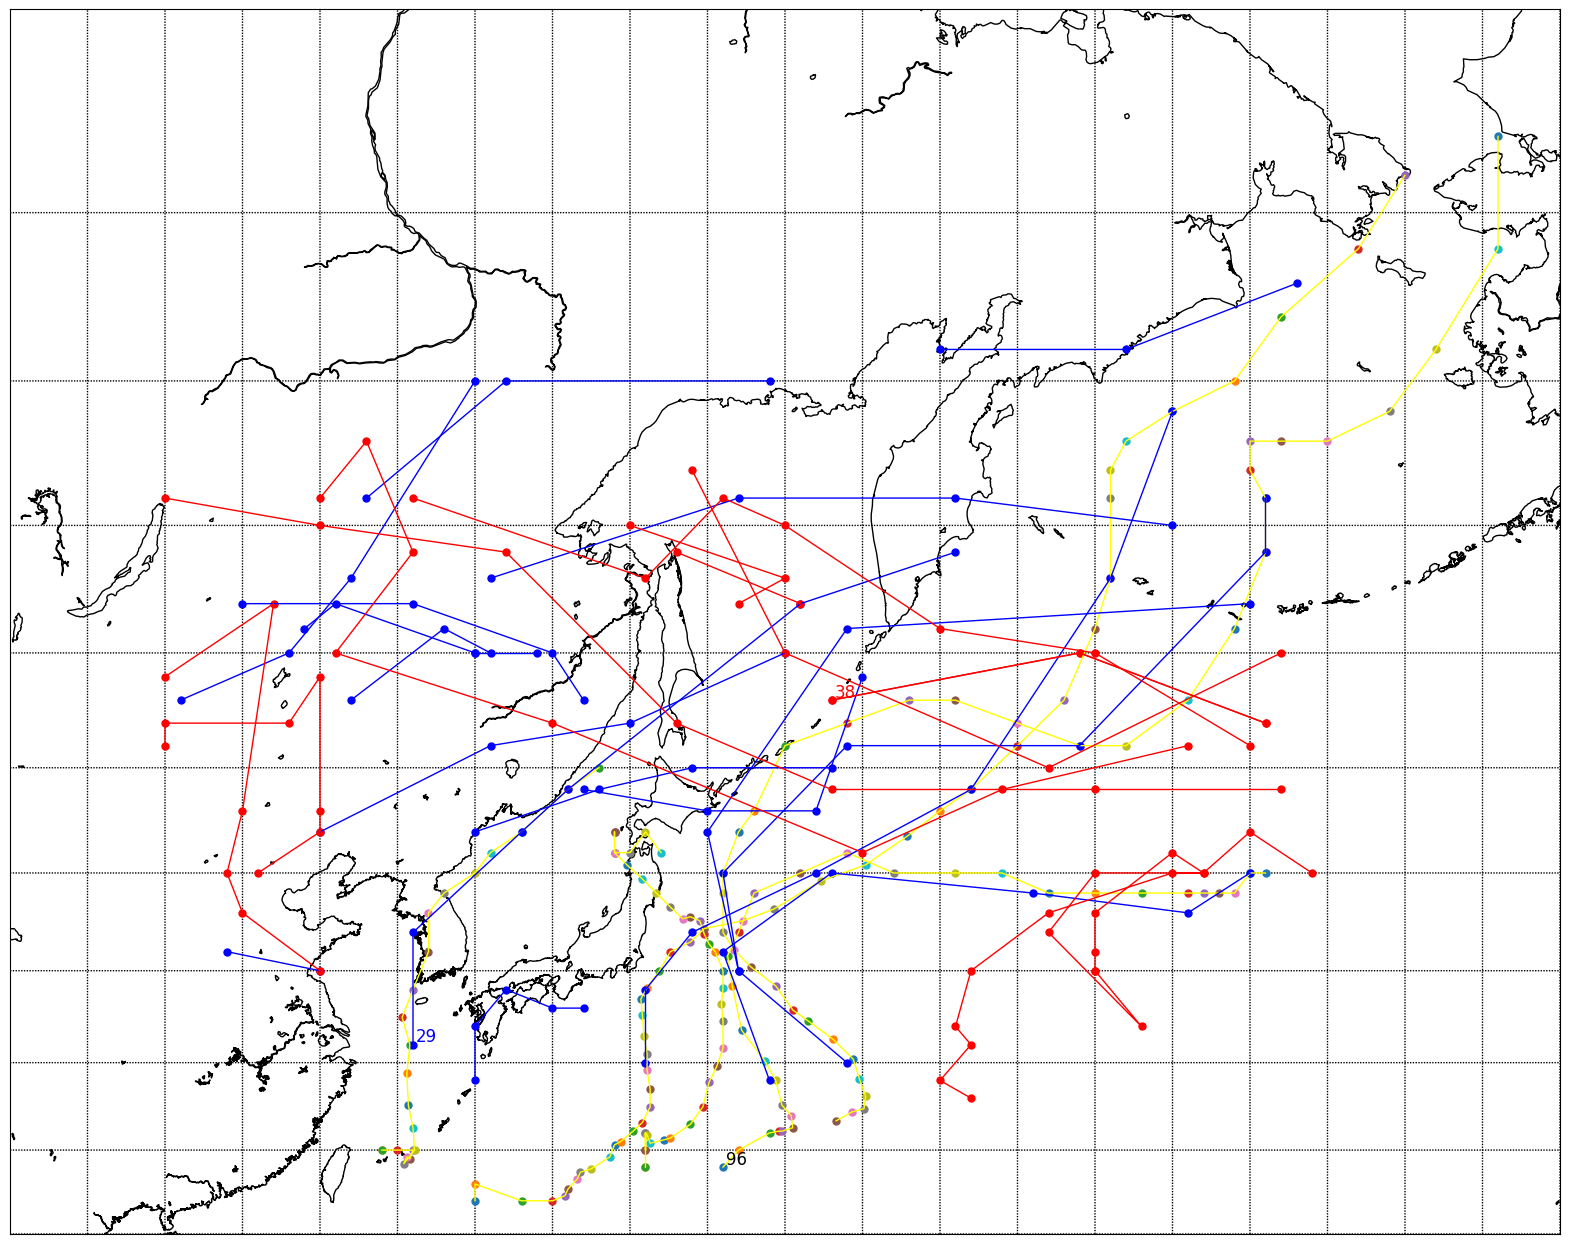
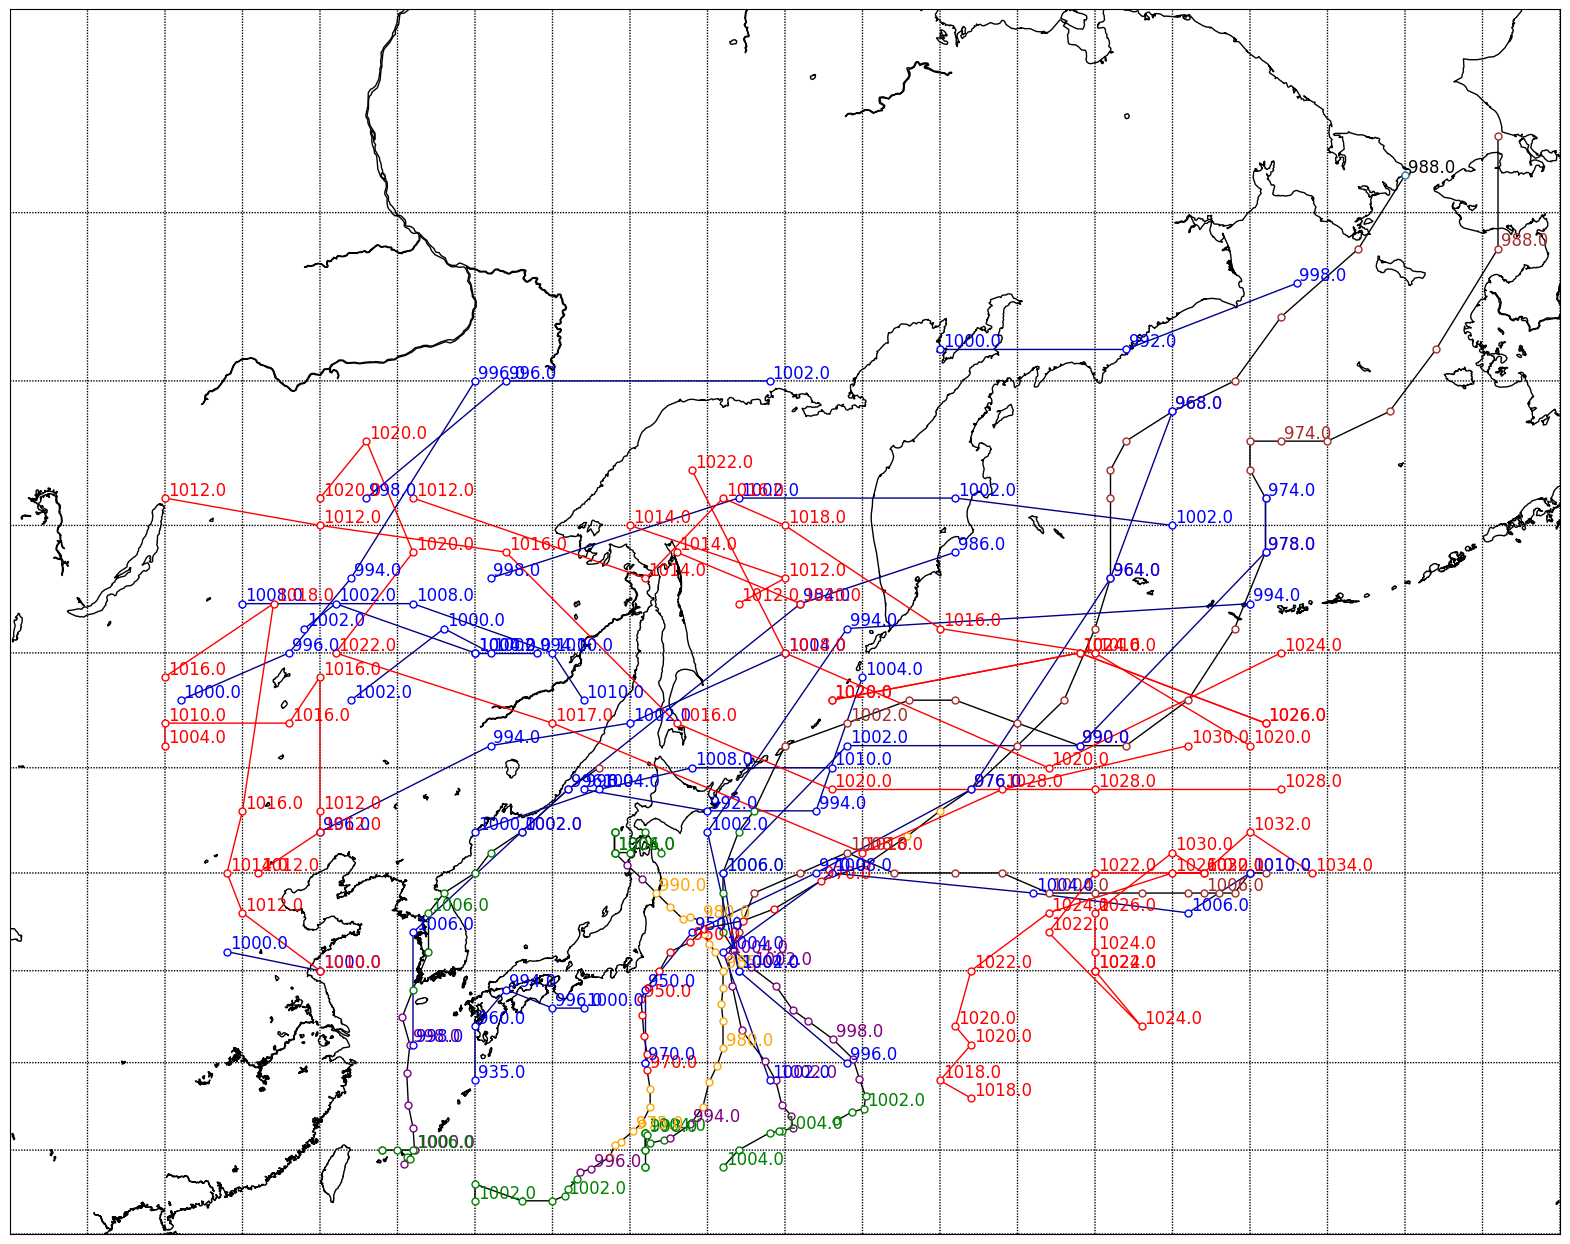
4

diff --git a/main.py b/main.py
@@ -11,32 +11,20 @@ from datetime import datetime, timedelta
 from mpl_toolkits.basemap import Basemap
 import matplotlib.pyplot as plt
 
-def track_tc(bm, tracks): #1
-    for track in tracks:
-        line = loads(track)
-        lons, lats = zip(*list(line.coords))  # Разбираем координаты
-        x, y = bm(lons, lats)
-        color = 'yellow'
-        bm.plot(x, y, marker=None, color=color, linewidth=1)
+# Класс строк линий, скорее всего не пригодится
+class TrackRow:
+    def __init__(self, coords, name, id):
+        self.coords = coords
+        self.name = name
+        self.id = id
 
-def track_zn(bm, tracks): #3
-    for track in tracks:
-        line = loads(track)
-        lons, lats = zip(*list(line.coords))  # Разбираем координаты
-        x, y = bm(lons, lats)
-        color = 'blue'
-        bm.plot(x, y, marker=None, color=color, linewidth=1)
-
-def track_az(bm, tracks): #4
-    for track in tracks:
-        line = loads(track)
-        lons, lats = zip(*list(line.coords))  # Разбираем координаты
-        x, y = bm(lons, lats)
-        subtitle_dot = list(line.coords)[0]
-        #по полученной точке рисовать
-        # plt.text(x, y, , fontsize=12, color=color)
-        color = 'red'
-        bm.plot(x, y, marker=None, color=color, linewidth=1)
+# Класс строк точек: X, Y, давление
+class DotRow:
+    def __init__(self, lon, lat, type_id, slp):
+        self.lon = lon
+        self.lat = lat
+        self.type_id = type_id
+        self.slp = slp
 
 def stage_type_id_color(type_id):
         if type_id == 2:
@@ -50,56 +38,104 @@ def stage_type_id_color(type_id):
         elif type_id == 29:
             return 'brown'
 
+def track_tc(bm, tracks): #1
+    for track in tracks:
+        line = loads(track.coords)
+        lons, lats = zip(*list(line.coords))  # Разбираем координаты
+        x, y = bm(lons, lats)
+        color = 'black'
+        bm.plot(x, y, marker=None, color=color, linewidth=1)
+        plt.text(x[1] + 20000, y[1] + 20000, str(track.name).replace(' (', '\n('), fontsize=12, color=color)
+
+def track_zn(bm, tracks): #3
+    for track in tracks:
+        line = loads(track.coords)
+        lons, lats = zip(*list(line.coords))  # Разбираем координаты
+        x, y = bm(lons, lats)
+        color = 'darkblue'
+        bm.plot(x, y, marker=None, color=color, linewidth=1)
+        plt.text(x[1] + 20000, y[1] + 20000, str(track.name).replace(' (', '\n('), fontsize=12, color=color)
+
+def track_az(bm, tracks): #4
+    for track in tracks:
+        line = loads(track.coords)
+        lons, lats = zip(*list(line.coords))  # Разбираем координаты
+        x, y = bm(lons, lats)
+        color = 'red'
+        bm.plot(x, y, marker=None, color=color, linewidth=1)
+        plt.text(x[1] + 20000, y[1] + 20000, str(track.name).replace(' (', '\n('), fontsize=12, color=color)
+
 def dot_tc(bm, dots):
-    count = 0
+    prev_dot_id = -1
     for dot in dots:
-        vm_lons, vm_lats, dot_id, dot_slp, dot_type_id = dot.split(' ') #x, y, подпись id, давление, тип точки
-        color = stage_type_id_color(dot_type_id)
-        x, y = bm(float(vm_lons), float(vm_lats))
+        # vm_lons, vm_lats, dot_id, dot_slp, dot_type_id = dot.split(' ') # x, y, подпись id, давление, тип точки
+        color = stage_type_id_color(dot.type_id)
+        x, y = bm(float(dot.lon), float(dot.lat))
+        if dot.slp:
+            plt.text(x + 20000, y + 20000, str(dot.slp), fontsize=12, color=color)
         # будет функция возвращающая тип маркера (и цвет и тп)
-        bm.plot(x, y, marker='o', color=color, markersize=5)
-        if count == 0:
-            x += 20000
-            y += 20000
-            plt.text(x, y, str(dot_id), fontsize=12, color=color)
-            #Пишем имя троп циклона
-        count += 1
+        bm.plot(x, y, marker='o', color=color, markersize=5,  markeredgecolor=color, markerfacecolor='white')
+
+        # if tmp in label_dots:
+        #     x += 20000
+        #     y += 20000
+        #     plt.text(x, y, str(dot_id), fontsize=12, color=color)
+        #
+        # if prev_dot_id != dot_id:
+        #     x += 20000
+        #     y += 20000
+        #     plt.text(x, y, str(dot_id), fontsize=12, color=color)
+        # prev_dot_id = dot_id
 
 def dot_zn(bm, dots):
-    count = 0
+    # prev_dot_id = -1
     for dot in dots:
-        vm_lons, vm_lats, dot_id, dot_slp = dot.split(' ')
+        # vm_lons, vm_lats, dot_id, dot_slp = dot.split(' ')
         color = 'blue'
-        x, y = bm(float(vm_lons), float(vm_lats))
-        bm.plot(x, y, marker='o', color=color, markersize=5)
-        if count == 0:
-            x += 20000
-            y += 20000
-            plt.text(x, y, str(dot_id), fontsize=12, color=color)
-        count += 1
+        x, y = bm(float(dot.lon), float(dot.lat))
+        bm.plot(x, y, marker='o', color=color, markersize=5,  markeredgecolor=color, markerfacecolor='white')
+        if dot.slp:
+            plt.text(x + 20000, y + 20000, str(dot.slp), fontsize=12, color=color)
+        # if f"({vm_lons}, {vm_lats})" in label_dots:
+        #     x += 20000
+        #     y += 20000
+        #     plt.text(x, y, str(dot_id), fontsize=12, color=color)
+        #
+        # if prev_dot_id != dot_id:
+        #     x += 20000
+        #     y += 20000
+        #     plt.text(x, y, str(dot_id), fontsize=12, color=color)
+        # prev_dot_id = dot_id
 
 def dot_az(bm, dots):
-    count = 0
+    prev_dot_id = -1
     for dot in dots:
-        vm_lons, vm_lats, dot_id, dot_slp = dot.split(' ')
+        # vm_lons, vm_lats, dot_id, dot_slp = dot.split(' ')
         color = 'red'
-        x, y = bm(float(vm_lons), float(vm_lats))
-        bm.plot(x, y, marker='o', color=color, markersize=5)
-        if count == 0:
-            x += 20000
-            y += 20000
-            plt.text(x, y, str(dot_id), fontsize=12, color=color)
-        count += 1
+        x, y = bm(float(dot.lon), float(dot.lat))
+        bm.plot(x, y, marker='o', color=color, markersize=5,  markeredgecolor=color, markerfacecolor='white')
+        if dot.slp:
+            plt.text(x + 20000, y + 20000, str(dot.slp), fontsize=12, color=color)
+
+        # if f"({vm_lons}, {vm_lats})" in label_dots:
+        #     x += 20000
+        #     y += 20000
+        #     plt.text(x, y, str(dot_id), fontsize=12, color=color)
+        #
+        # if prev_dot_id != dot_id:
+        #     x += 20000
+        #     y += 20000
+        #     plt.text(x, y, str(dot_id), fontsize=12, color=color)
+        # prev_dot_id = dot_id
 
 def get_cis_property_view_month(date_start, date_end, cur):
-    command = f"SELECT ST_X(coord), ST_Y(coord), cic_type_id, * FROM ciclones.cic_property_view_mon WHERE max_datetime >= '{date_start}' AND max_datetime <= '{date_end}'"
-    # command = f"SELECT ST_X(coord), ST_Y(coord), cic_type_id FROM ciclones.cic_property_view_mon WHERE max_datetime >= '{date_start}' AND max_datetime <= '{date_end}'"
+    command = f"SELECT ST_X(coord), ST_Y(coord), cic_type_id, * FROM ciclones.cic_property_view_mon WHERE max_datetime >= '{date_start}' AND max_datetime <= '{date_end}' order by cic_id, max_datetime;"
     cur.execute(command)
     view_mon_rows = cur.fetchall()
     return view_mon_rows
 
 def get_cis_track_view_month(date_start, date_end, cur):
-    command = f"SELECT ST_AsText(track), cic_type_id, * FROM ciclones.cic_track_view_gs_full WHERE max_datetime >= '{date_start}' AND max_datetime <= '{date_end}'"
+    command = f"SELECT ST_AsText(track), cic_type_id, * FROM ciclones.cic_track_view_gs_full WHERE max_datetime >= '{date_start}' AND max_datetime <= '{date_end}' order by cic_id, max_datetime;"
     cur.execute(command)
     track_view_rows = cur.fetchall()
     return track_view_rows
@@ -109,16 +145,11 @@ def get_cis_track_view_month(date_start, date_end, cur):
 # 3 - циклон
 # 4 - антициклон
 
-def main(cys_type_zn, cys_type_az, cys_type_tc, start_date, period, save_path): #Циклон, Антициклон, Тропический циклон
+def main(cys_type_zn, cys_type_az, cys_type_tc, start_date, period, save_path, is_slp, is_track_name): #Циклон, Антициклон, Тропический циклон
     # Считываем карту и рисуем необходимую область
     os.environ['GDAL_DATA'] = os.path.join(f'{os.sep}'.join(sys.executable.split(os.sep)[:-1]), 'Library', 'share', 'gdal')
     gpd.read_file('map/ne_110m_coastline.shp')
     plt.figure(figsize=(20, 16))
-    # bm = Basemap(width=8000000,height=6500000,
-    #             rsphere=(6378137.00,6356752.3142),\
-    #             resolution='h',area_thresh=1000.,projection='lcc',\
-    #             lat_1=-10.,lat_2=55,lat_0=45,lon_0=+150.)
-    #             # lat_1=20., lat_2=55, lat_0=45, lon_0=+150.)
     blanc_type = "None"
     if blanc_type == "TC":
         bm = Basemap(projection='aeqd', # Тропики
@@ -134,7 +165,6 @@ def main(cys_type_zn, cys_type_az, cys_type_tc, start_date, period, save_path): 
     bm.drawparallels(np.arange(-80.,81.,5.))
     bm.drawmeridians(np.arange(-180.,181.,5.))
     bm.drawcoastlines()
-    #bm.readshapefile('map/ne_110m_coastline', 'coastline')
 
     # Считываем параметры БД
     with open('confing.conf', 'r') as f:
@@ -187,6 +217,7 @@ def main(cys_type_zn, cys_type_az, cys_type_tc, start_date, period, save_path): 
     # формируем и заранее создаем необходимые списки
     view_mon_rows = get_cis_property_view_month(start_date, end_date, cur)
     track_view_rows = get_cis_track_view_month(start_date, end_date, cur)
+
     track_view_tc = list()
     track_view_zn = list()
     track_view_az = list()
@@ -195,52 +226,75 @@ def main(cys_type_zn, cys_type_az, cys_type_tc, start_date, period, save_path): 
     mon_view_zn = list()
     mon_view_az = list()
 
+    label_dot_dict = dict()
+
     # формируем списки линий по типам циклонов
     for track in track_view_rows:
-        type = track[1]
+        track_type = track[1]
+        track_id = ""
+        if is_track_name:
+            track_id = str(track[2])[-2:]
         row = track[0]
-        if type == 1:
+        # Проверяем нужны ли подписи имен линий и если нужны передаем и их
+        if is_track_name:
+            if track[3] != None:
+                name = track[3]
+            else:
+                name = ""
+            element = TrackRow(row, name, track_id)
+        else:
+            element = TrackRow(row, "", track_id)
+
+        if track_type == 1:
             if cys_type_tc:
                 if row is None:
                     continue
-                track_view_tc.append(row)
-        if type == 3:
+                track_view_tc.append(element)
+        if track_type == 3:
              if cys_type_zn:
                 if row is None:
                     continue
-                track_view_zn.append(row)
-        if type == 4:
+                track_view_zn.append(element)
+        if track_type == 4:
             if cys_type_az:
                 if row is None:
                     continue
-                track_view_az.append(row)
+                track_view_az.append(element)
 
     # формируем списки точек по типам циклонов
     for dot in view_mon_rows:
         vm_lons = dot[0]
         vm_lats = dot[1]
-        dot_id = str(dot[3])[-2:]
-        dot_slp = dot[18]
+        dt = int(datetime.strftime(dot[15],"%H"))
+        dot_type = dot[2]
+        # Проверяем нужно ли подписать давление и если нужно то передаем его значение по условию
+        dot_slp = ""
+        if dt == 0 and is_slp:
+            dot_slp = dot[18]
+
         dot_stage_type_id = None
         if dot[13]:
             dot_stage_type_id = dot[13]
-        type = dot[2]
-        if cys_type_tc:
-            if type == 1:
-                mon_view_tc.append(f"{vm_lons} {vm_lats} {dot_id} {dot_slp} {dot_stage_type_id}")
-        if cys_type_zn:
-            if type == 3:
-                mon_view_zn.append(f"{vm_lons} {vm_lats} {dot_id} {dot_slp}")
-        if cys_type_az:
-            if type == 4:
-                mon_view_az.append(f"{vm_lons} {vm_lats} {dot_id} {dot_slp}")
 
+        element = DotRow(vm_lons, vm_lats, dot_stage_type_id, dot_slp)
+
+        if cys_type_tc:
+            if dot_type == 1:
+                # mon_view_tc.append(f"{vm_lons} {vm_lats} {dot_id} {dot_slp} {dot_stage_type_id}")
+                mon_view_tc.append(element)
+        if cys_type_zn:
+            if dot_type == 3:
+                # mon_view_zn.append(f"{vm_lons} {vm_lats} {dot_id} {dot_slp}")
+                mon_view_zn.append(element)
+        if cys_type_az:
+            if dot_type == 4:
+                # mon_view_az.append(f"{vm_lons} {vm_lats} {dot_id} {dot_slp}")
+                mon_view_az.append(element)
 
     # построение линий
     track_tc(bm, track_view_tc)
     track_zn(bm, track_view_zn)
     track_az(bm, track_view_az)
-
 
     # построение точек
     dot_tc(bm, mon_view_tc)
@@ -259,7 +313,7 @@ def main(cys_type_zn, cys_type_az, cys_type_tc, start_date, period, save_path): 
         filepath = filepath + "Az"
     if cys_type_tc:
         filepath = filepath + "Tc"
-    filepath = filepath + ".png"
+    filepath += ".png"
 
     # сохраняем файл
     plt.savefig(filepath, bbox_inches='tight', pad_inches=0.1)
@@ -309,12 +363,28 @@ if __name__ == "__main__":
         default="./",
         help="Путь куда сохранять"
     )
-
+    parser.add_argument(
+        "--dots_slp", "-slp",
+        required=False,
+        type=float,
+        default=1,
+        help="Нужно ли давление точек"
+    )
+    parser.add_argument(
+        "--track_name", "-tn",
+        required=False,
+        type=float,
+        default=0,
+        help="Нужны ли имена линий"
+    )
     # Передаем аргументы
     args = parser.parse_args()
     cis_type_zn = True
     cis_type_az = True
     cis_type_tc = True
+    is_slp = True
+    is_track_name = True
+
     if args.cyclone == 0:
         cis_type_zn = False
 
@@ -324,4 +394,10 @@ if __name__ == "__main__":
     if args.tropicalcyclone == 0:
         cis_type_tc = False
 
-    main(cis_type_zn, cis_type_az, cis_type_tc, args.startdate, args.period, args.pathtosave)
+    if args.dots_slp == 0:
+        is_slp = False
+
+    if args.track_name == 0:
+        is_track_name = False
+
+    main(cis_type_zn, cis_type_az, cis_type_tc, args.startdate, args.period, args.pathtosave, is_slp, is_track_name)
